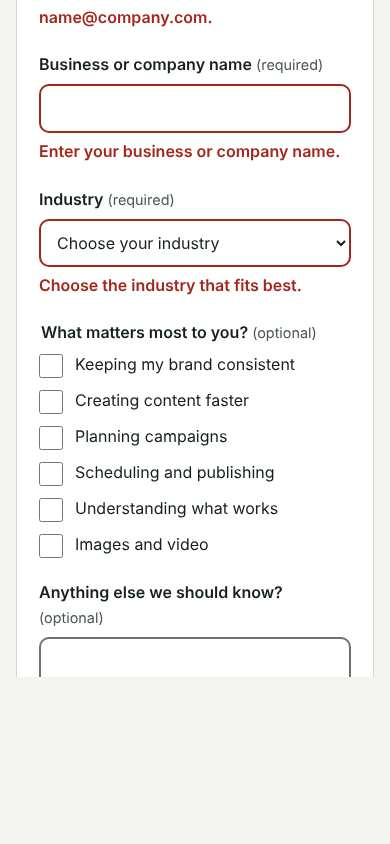
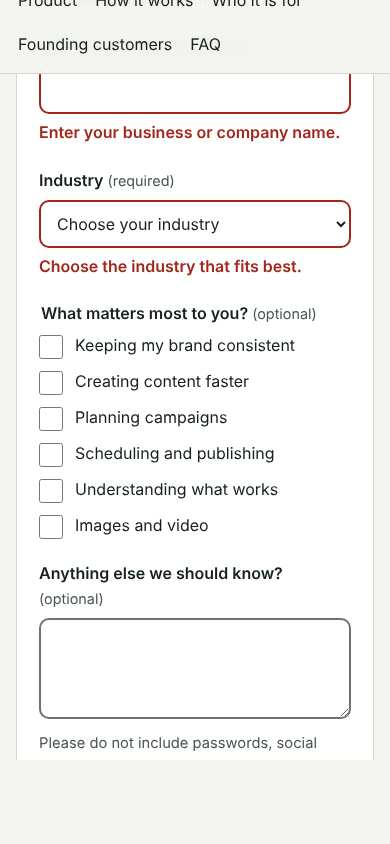
fix(web): consent spacing; evidence screenshots load lazy images; refresh evidence (BG-WEB-001)
Claude-Session: https://claude.ai/code/session_019vXNyAy2YCNfTDvtQyRQ2k

diff --git a/site/assets/site.css b/site/assets/site.css
@@ -156,3 +156,6 @@ input[aria-invalid="true"], select[aria-invalid="true"], textarea[aria-invalid="
   .prose th, .prose td { border: 0; padding: 4px 0; }
   .prose td::before, .prose th[scope="row"]::before { content: attr(data-label); display: block; font-size: .8rem; font-weight: 600; text-transform: uppercase; letter-spacing: .04em; color: var(--muted); }
 }
+
+.consent .check { margin-bottom: 14px; }
+.consent .error { margin-top: -6px; margin-bottom: 14px; }
